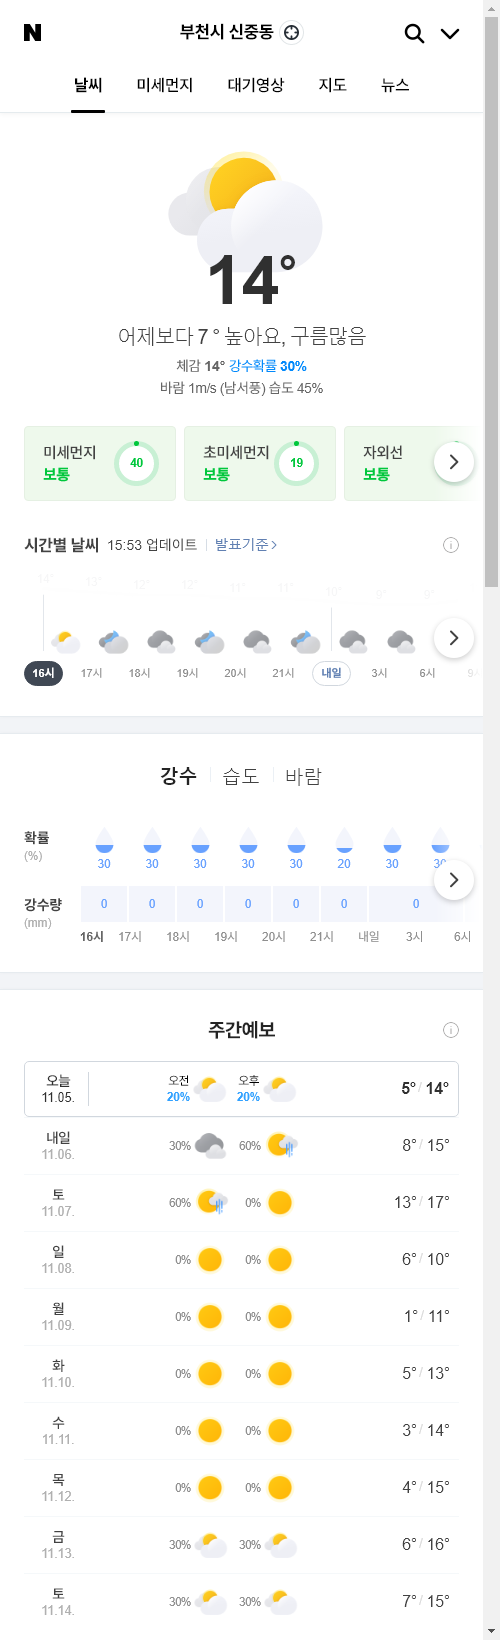
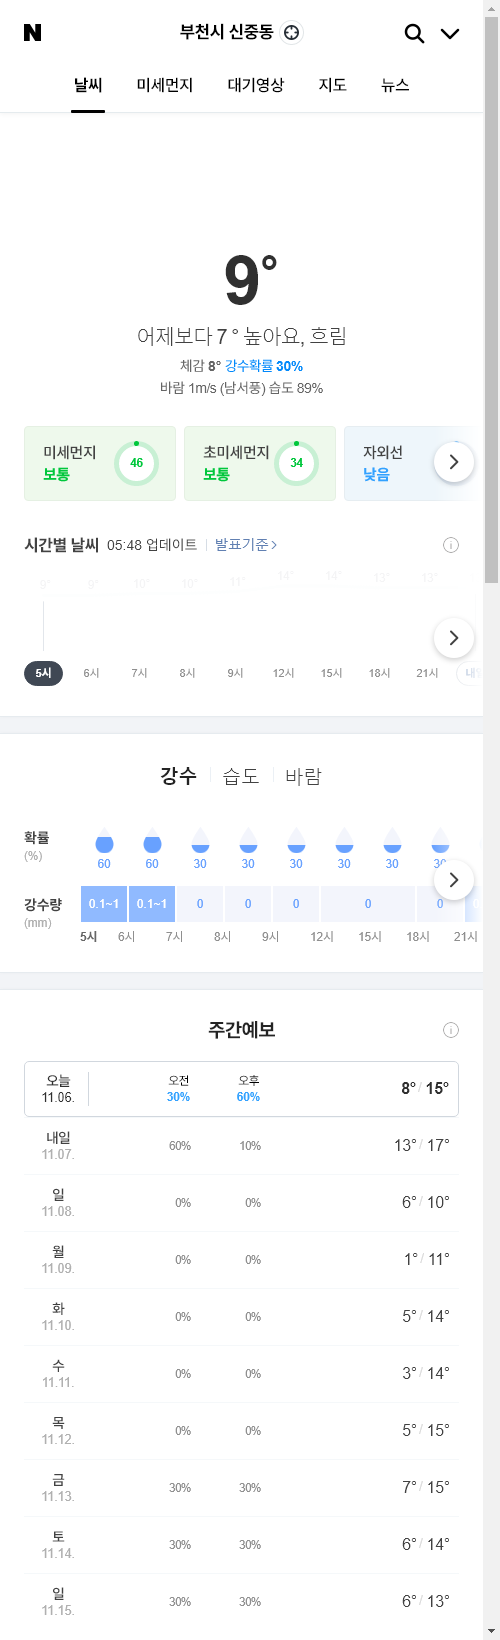
update result

diff --git a/README.md b/README.md
@@ -1,5 +1,5 @@
-##  2020-11-05 16:02:40   목요일 
-##### 날씨   -   어제보다 5 ° 높아요, 구름많음
+##  2020-11-06 05:54:33   금요일 
+##### 날씨   -   어제보다 7 ° 높아요, 흐림
 <center><img src="../img/naver_weather_week.png"></center>
 ----
 ----
@@ -13,17 +13,17 @@
 ##### 세계
 <table border="1" bordercolor="blue" align = "center" >
 <tr align = "right" > <td>Item</td><td>Point</td><td>Diff</td><td>Rate</td><td>Buy</td><td>Sell</td><td>...</td>  </tr>
-<tr align = "right" > <td>DOW</td><td>27,847.66</td><td>367.63</td><td><font size="3" color="red" >1.34%</font></td><td><font size="3" color="black">0</font></td><td><font size="3" color="black">0</font></td><td>0</td>  </tr>
-<tr align = "right" > <td>NASDAQ</td><td>11,590.78</td><td>430.21</td><td><font size="3" color="red" >3.85%</font></td><td><font size="3" color="black">0</font></td><td><font size="3" color="black">0</font></td><td>0</td>  </tr>
-<tr align = "right" > <td>S&P</td><td>3,443.44</td><td>74.28</td><td><font size="3" color="red" >2.2%</font></td><td><font size="3" color="black">0</font></td><td><font size="3" color="black">0</font></td><td>0</td>  </tr>
-<tr align = "right" > <td>SHANHAI</td><td>3,316.92</td><td>39.48</td><td><font size="3" color="red" >1.2%</font></td><td><font size="3" color="black">0</font></td><td><font size="3" color="black">0</font></td><td>0</td>  </tr>
-<tr align = "right" > <td>INDIA</td><td>41,192.01</td><td>575.87</td><td><font size="3" color="red" >1.42%</font></td><td><font size="3" color="black">0</font></td><td><font size="3" color="black">0</font></td><td>0</td>  </tr>
+<tr align = "right" > <td>DOW</td><td>28,328.54</td><td>480.88</td><td><font size="3" color="red" >1.73%</font></td><td><font size="3" color="black">0</font></td><td><font size="3" color="black">0</font></td><td>0</td>  </tr>
+<tr align = "right" > <td>NASDAQ</td><td>11,863.26</td><td>272.48</td><td><font size="3" color="red" >2.35%</font></td><td><font size="3" color="black">0</font></td><td><font size="3" color="black">0</font></td><td>0</td>  </tr>
+<tr align = "right" > <td>S&P</td><td>3,507.26</td><td>63.82</td><td><font size="3" color="red" >1.85%</font></td><td><font size="3" color="black">0</font></td><td><font size="3" color="black">0</font></td><td>0</td>  </tr>
+<tr align = "right" > <td>SHANHAI</td><td>3,320.13</td><td>42.69</td><td><font size="3" color="red" >1.3%</font></td><td><font size="3" color="black">0</font></td><td><font size="3" color="black">0</font></td><td>0</td>  </tr>
+<tr align = "right" > <td>INDIA</td><td>41,340.16</td><td>724.02</td><td><font size="3" color="red" >1.78%</font></td><td><font size="3" color="black">0</font></td><td><font size="3" color="black">0</font></td><td>0</td>  </tr>
 </table>
 ----
 ##### 시장
 <table border="1" bordercolor="blue" align = "center" >
 <tr align = "right" > <td>Item</td><td>Price</td><td>Diff</td><td>Rate</td><td>Buy</td><td>Sell</td><td>...</td>  </tr>
-<tr align = "right" > <td>USD</td><td>1,129.0</td><td>-11.0</td><td><font size="3" color="blue">-0.96%</font></td><td><font size="3" color="black">1,110</font></td><td><font size="3" color="black">0</font></td><td>0</td>  </tr>
+<tr align = "right" > <td>USD</td><td>1,126.0</td><td>-13.5</td><td><font size="3" color="blue">-1.18%</font></td><td><font size="3" color="black">1,110</font></td><td><font size="3" color="black">0</font></td><td>0</td>  </tr>
 <tr align = "right" > <td>WTI</td><td>39.15</td><td>1.49</td><td><font size="3" color="red">3.95%</font></td><td><font size="3" color="black">29.0</font></td><td><font size="3" color="black">0</font></td><td>0</td>  </tr>
 <tr align = "right" > <td>GOLD</td><td>1,894.0</td><td>-13.9</td><td><font size="3" color="blue">-0.72%</font></td><td><font size="3" color="black">0</font></td><td><font size="3" color="black">0</font></td><td>0</td>  </tr>
 </table>
